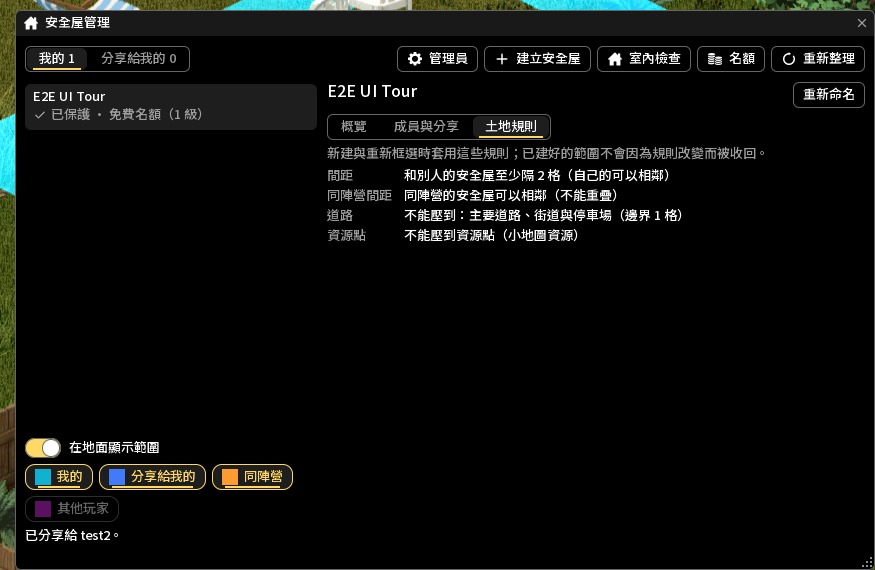
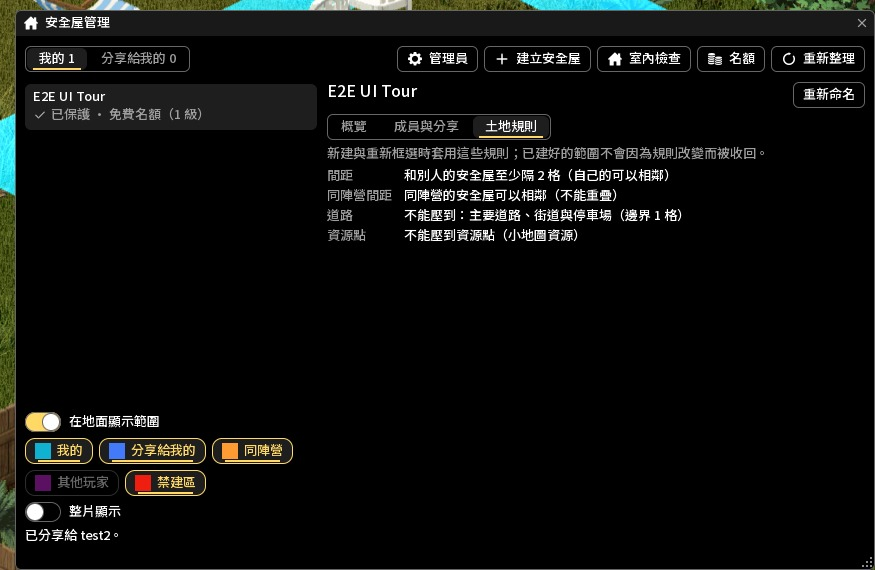
發布 42.21.0-0.8.0
- 版號 42.21.0-0.7.0 → 42.21.0-0.8.0（使用者確認）；CHANGELOG [Unreleased] 改成本版標題。
- STEAM_CHANGELOG：六條（禁建區、壓到就不能建立、既有安全屋不移除、禁建區視窗、玩家看得到、整片顯示）。
- 簡介（繁中、英文、日文）：「避開道路與資源點」加上禁建區，「管理視窗」的地面標示加上禁建區；重建 workshop.txt。
- 英文指南一處「safehouse window」改成 Safehouse Manager。
- 指南與作品頁截圖 01-overview、05-land-rules、06-share、08-slots 中英重拍（「在地面顯示範圍」多了禁建區與整片顯示），
  取自 ui-mp sh-rel8-uich-1016a、sh-rel8-uien-1016a。

驗證：verify_mod 17/17、smoke_harness 1970 項；發版前回歸 E2E 全 PASS：ui-mp 中英（A 43 步／78 檢查、B 10 步／12 檢查）、
ranges-mp（A 47／14、B 19／4）、createtint-mp（58／19）、zones-mp、zonesview-mp。

Changed region(s): [[0.0309, 0.7158, 0.3394, 0.9246]]

diff --git a/STEAM_CHANGELOG.md b/STEAM_CHANGELOG.md
@@ -1,21 +1,12 @@
-[h1]Minidoracat Safehouse for B42 42.21.0-0.7.0[/h1]
+[h1]Minidoracat Safehouse for B42 42.21.0-0.8.0[/h1]
 [i]2026-10-16[/i]
 
-[h3]⚠ 伺服器管理員：更新後要重設名額[/h3]
+[h3]✨ 新增[/h3]
 [list]
-[*] 舊的名額設定（每人免費間數、各級的免費／買斷／租用開關、各級每人上限）不會自動搬過來。更新後請到管理員面板「地契」頁，替每一級重新設定「免費」「可買」「可租」三個數字，再按〔套用變更〕。
-[*] 設好之前，每人只有 1 級免費 1 間，各級都不能買新的名額；已經買、租的名額照常使用與續租，已建的安全屋不會因此停用。
-[/list]
-
-[h3]🔄 變更[/h3]
-[list]
-[*] [b]名額改成每一級各自設定[/b]：管理員現在替每一級地契設三個數字：免費幾間、每人最多能買斷幾個、每人最多能同時租幾個；這一級每人最多幾間＝三個相加。之前「每人免費間數」是各級共用的，另外還有各級的每人上限，以及經濟中心付費頁的每人買斷、租用上限，幾個數字算的範圍不一樣、對不起來。管理員面板的玩家頁只改那位玩家 1 級的免費名額。
-[/list]
-
-[h3]🔧 修正[/h3]
-[list]
-[*] [b]同一級買到上限就不能再買、再租[/b]：之前可以多租一個這一級用不到的名額，錢扣了卻建不了房子。現在到上限時，名額視窗的〔買斷〕〔租用〕會停用並寫出原因，伺服器也會拒絕。已經多租的名額照常可用、可以續租，能拿來多建一間這一級的安全屋，或請管理員退款。
-[*] [b]看得到付款結果[/b]：之前付款結果寫在名額視窗最底下，視窗不夠高時要捲到底才看得到。現在結果寫在你按的那一級底下，畫面上也會跳出通知。
-[*] [b]名額視窗把數字說清楚[/b]：每一級寫「已有幾間／最多幾間」，下面寫免費、買斷、租用各用了幾個、付費名額還能再建幾間；租約寫到期日和剩多久，並說明租約不綁定哪一間房子。
-[*] [b]管理視窗清單分得出哪間用哪種名額[/b]：自己的安全屋第二行會寫「免費名額（1 級）」或「付費名額（1 級）」，同名的安全屋也分得出來。
+[*] [b]管理員可以設禁建區[/b]：有些地方被圈成安全屋就會擋到大家，例如道路判定抓不到的土路（原版通往軍事基地的必經路是泥土路，勾了「碎石地」也擋不到）。管理員在管理員面板「排除」頁按〔管理禁建區〕，再按〔新增禁建區〕，用和建立安全屋一樣的方式框出範圍、取個名稱。
+[*] [b]範圍壓到禁建區就不能建立[/b]：建立或重新框選時，預檢會在地上把壓到的部分標紅，並寫出是哪一個禁建區。管理員自己建立也一樣擋；只貼著邊不算壓到。
+[*] [b]已經建好的安全屋不會被移除[/b]：後來才設的禁建區蓋到既有的安全屋時，安全屋照常受保護；禁建區視窗會在那個禁建區底下列出壓到它的安全屋，由管理員決定怎麼處理。
+[*] [b]禁建區視窗[/b]：開在畫面右側，可以搜尋名稱、看座標，按〔傳送〕直接過去看範圍（帳號要有傳送到座標的權限）。開著時地上用亮紅色畫出禁建區，傳送過去的那個改用黃色。
+[*] [b]玩家也看得到禁建區[/b]：管理視窗「在地面顯示範圍」多了第五類「禁建區」（預設開），走到附近就會在地上用紅色畫出來；管理員新增或刪除後，在線的玩家不用重新連線就會更新。安全屋和禁建區重疊的地方顯示安全屋的顏色。
+[*] [b]地面範圍可以整片顯示[/b]：「在地面顯示範圍」底下多了〔整片顯示〕（預設關）。打開時每間安全屋和禁建區整片塗上較暗的顏色、邊緣用較亮的顏色畫；關掉時照舊只畫邊緣。選項的「模組」頁也能切換。
 [/list]

diff --git a/STEAM_DESCRIPTION_JP.md b/STEAM_DESCRIPTION_JP.md
@@ -27,9 +27,9 @@
 [list]
 [*] [b]段階別の権利書[/b]：権利書の段階でセーフハウスの広さの上限が決まります
 [*] [b]カスタム範囲[/b]：ドラッグするか角まで歩いて範囲を決め、L 字や U 字の形にもできます
-[*] [b]道路と資源地点を除外[/b]：道路や駐車場、軍・警察・医療などの建物は範囲に入れられません
+[*] [b]道路・資源地点・建設禁止区域を除外[/b]：道路や駐車場、軍・警察・医療などの建物、管理者が設定した建設禁止区域は範囲に入れられません
 [*] [b]権限ごとの共有[/b]：プレイヤーや派閥に共有し、家電・建築・農業を個別に許可できます
-[*] [b]管理ウィンドウ[/b]：名前の変更、共有、放棄、リスポーン地点の設定ができ、近くのセーフハウスの範囲を地面に表示します
+[*] [b]管理ウィンドウ[/b]：名前の変更、共有、放棄、リスポーン地点の設定ができ、近くのセーフハウスと建設禁止区域を地面に表示します
 [*] [b]バニラの保護[/b]：メンバー以外は入れず物も取れませんが、ゾンビは屋内にも湧くことがあります
 [*] [b]車でも入れない[/b]：乗っている誰かが入れない場合、車でも入れません（トレーラーも同様）
 [*] [b]管理者パネル[/b]：権利書、除外、有料枠を含むすべてのルールをゲーム内で調整

diff --git a/STEAM_DESCRIPTION_EN.md b/STEAM_DESCRIPTION_EN.md
@@ -27,9 +27,9 @@ A safehouse system for multiplayer servers: use a deed to claim the area you cho
 [list]
 [*] [b]Tiered deeds[/b]: the deed tier sets how large your safehouse can be
 [*] [b]Custom area[/b]: drag or walk to two corners to mark the area, and join pieces into L or U shapes
-[*] [b]Avoids roads and resource points[/b]: roads, parking lots and buildings such as military, police and medical sites cannot be claimed
+[*] [b]Avoids roads, resource points and no-build zones[/b]: roads, parking lots, buildings such as military, police and medical sites, and no-build zones set by admins cannot be claimed
 [*] [b]Per-permission sharing[/b]: share with players or your faction, granting appliances, building and farming separately
-[*] [b]Manager window[/b]: rename, share or release your safehouses, set a respawn point, and see nearby safehouses outlined on the ground
+[*] [b]Manager window[/b]: rename, share or release your safehouses, set a respawn point, and see nearby safehouses and no-build zones on the ground
 [*] [b]Vanilla protection[/b]: non-members cannot enter or take items, but zombies can still spawn inside
 [*] [b]No driving in[/b]: if anyone aboard can't enter, the vehicle can't drive in, trailers included
 [*] [b]Admin panel[/b]: adjust every rule in game, including deeds, exclusions and paid slots

diff --git a/STEAM_GUIDE_EN.md b/STEAM_GUIDE_EN.md
@@ -188,7 +188,7 @@ The server re-checks every rule when you send the area, and the check page lists
 [list]
 [*] [b]What they are[/b]: places an admin marks in the admin panel where safehouses can't be built, such as dirt roads the road check can't detect.
 [*] [b]How they're checked[/b]: if the area covers any tile of one, you can't create or redraw it there. Only touching the edge is fine, and admins are blocked too.
-[*] [b]Can I see them?[/b] Yes. The "No-build zones" kind of "Show ranges on the ground" in the safehouse window (on by default) draws the zones near you in bright red, and updates right away when an admin adds or deletes one. When a check fails, the covered part is also marked red and the zone's name is shown.
+[*] [b]Can I see them?[/b] Yes. The "No-build zones" kind of "Show ranges on the ground" in Safehouse Manager (on by default) draws the zones near you in bright red, and updates right away when an admin adds or deletes one. When a check fails, the covered part is also marked red and the zone's name is shown.
 [*] [b]Existing safehouses[/b]: a zone added later doesn't remove them.
 [/list]
 [h3]This server's rules[/h3]

diff --git a/STEAM_DESCRIPTION.md b/STEAM_DESCRIPTION.md
@@ -27,9 +27,9 @@
 [list]
 [*] [b]分級地契[/b]：地契等級決定安全屋能圈多大
 [*] [b]自訂範圍[/b]：拖曳或走到兩角框出範圍，能拼成 L 形、U 形
-[*] [b]避開道路與資源點[/b]：道路、停車場與軍警醫療等建築圈不進來
+[*] [b]避開道路、資源點與禁建區[/b]：道路、停車場、軍警醫療等建築與管理員設的禁建區都圈不進來
 [*] [b]逐項分享[/b]：分享給玩家或陣營，電器、建造、農耕分開授權
-[*] [b]管理視窗[/b]：改名、分享、放棄、設重生點，也能在地上標出附近安全屋
+[*] [b]管理視窗[/b]：改名、分享、放棄、設重生點，也能在地上標出附近的安全屋與禁建區
 [*] [b]原版保護[/b]：非成員進不去也拿不走東西，殭屍仍可能在屋內生成
 [*] [b]車開不進去[/b]：車上有人不能進，車就開不進去，拖車也一樣
 [*] [b]管理員面板[/b]：在遊戲內調整所有規則，包括地契、排除與付費名額

diff --git a/CHANGELOG.md b/CHANGELOG.md
@@ -12,7 +12,7 @@
 
 格式基於 [Keep a Changelog](https://keepachangelog.com/zh-TW/1.1.0/)，版本號遵循 `{PZ版本}-{主版本}.{次版本}.{修訂}` 格式。
 
-## [Unreleased]
+## [42.21.0-0.8.0] - 2026-10-16
 
 ### 新增
 
